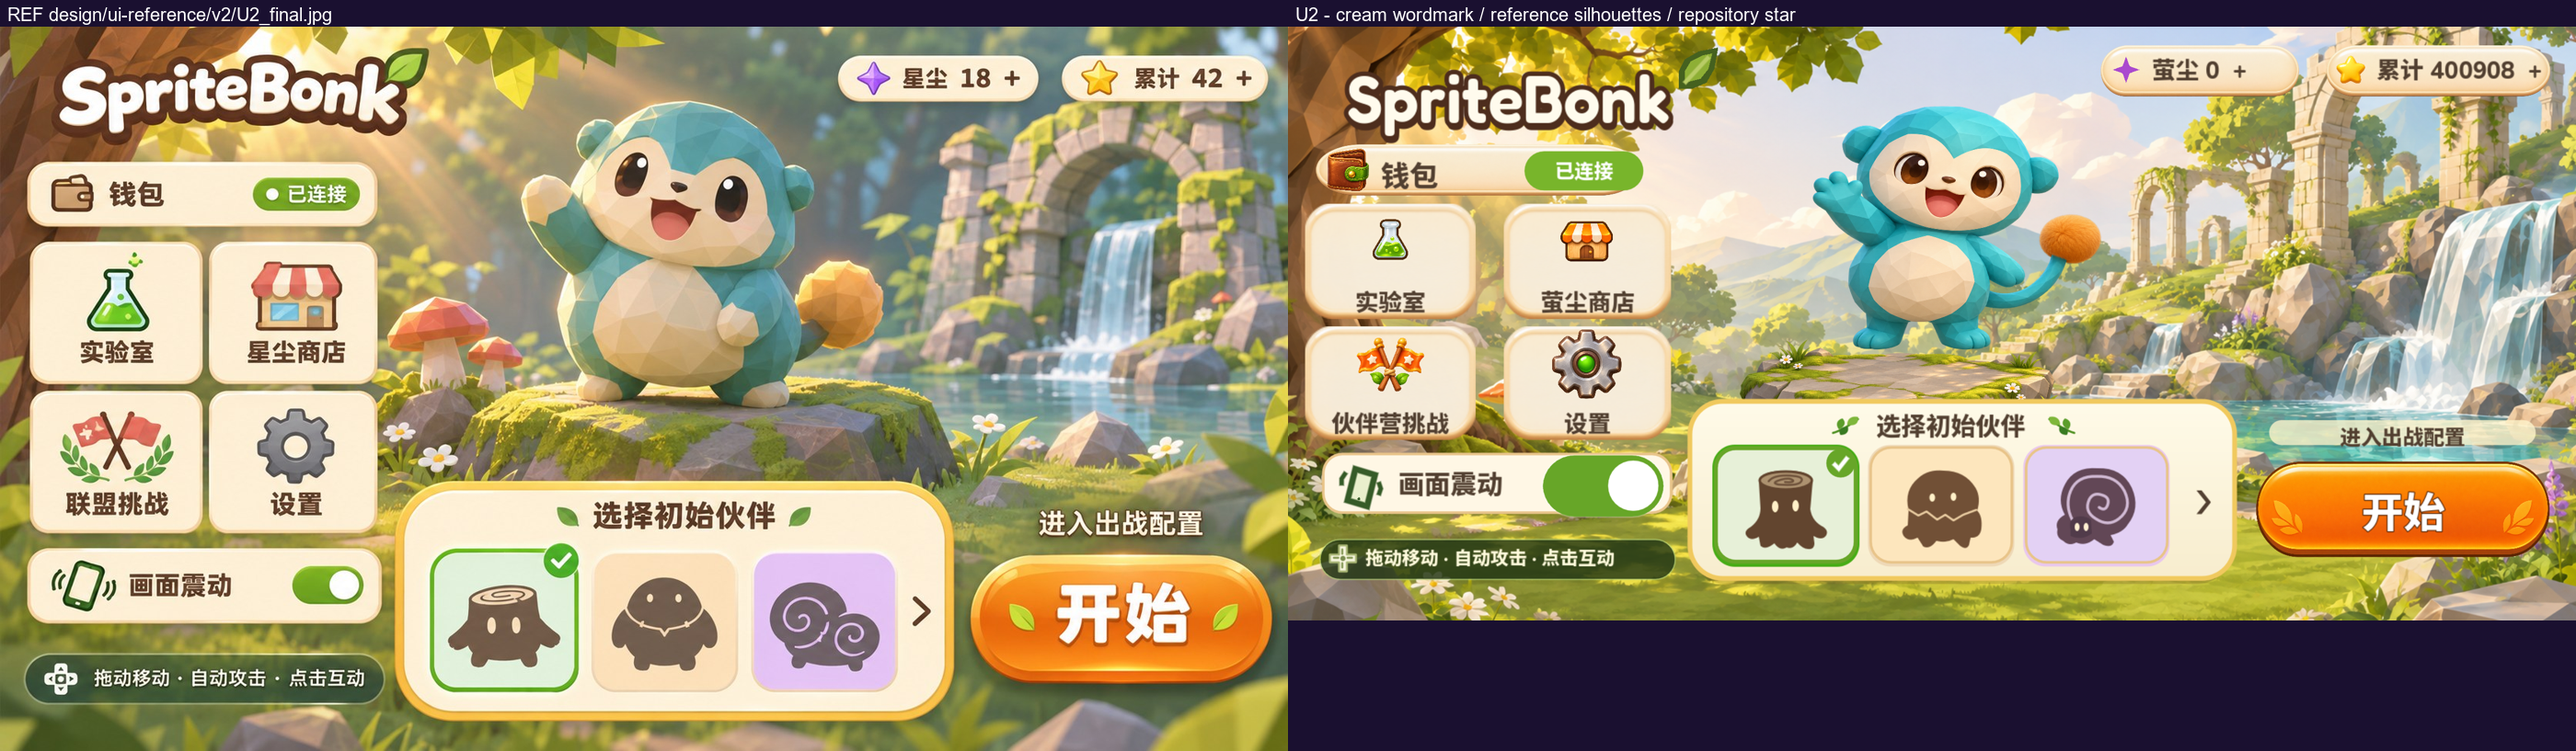
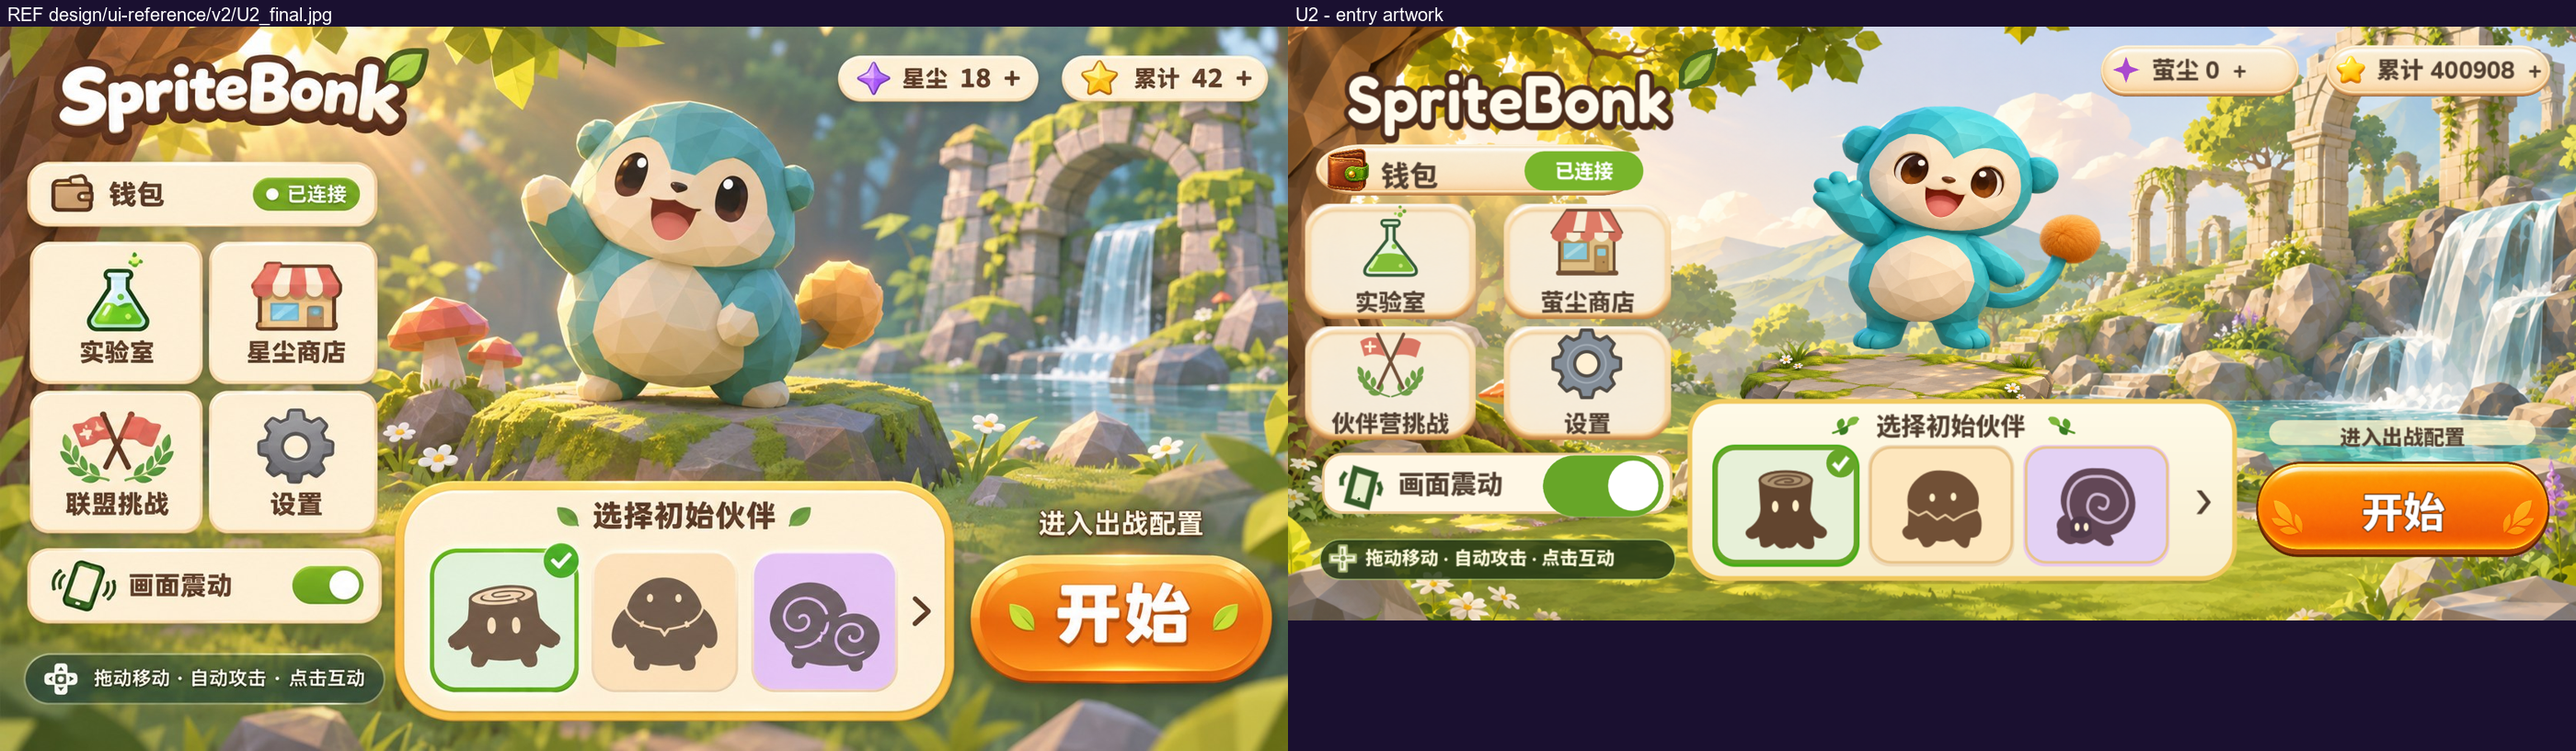
Align U2 entry illustrations with reference silhouettes

diff --git a/design/ui-alignment-progress.md b/design/ui-alignment-progress.md
@@ -200,3 +200,15 @@ U1 已重开，U3 不得开工（见「关闭门」）。第 9 轮：2340 复验
 - 冻结代码后按两档逐次全程复验，`u2-graphic-full-2340.log` **1475/3**、`u2-graphic-full-2400.log` **1565/3**，相对同机基线仅增加一条字标颜色检查，新失败为 0。三条既有红仍为抽屉自动收起、头像暂停可达及祝福打开遇迟到 draft。
 - 最终后台实拍已目检，白色字标、无下划线、手机图标、五角星与三张剪影均可见。捕获逻辑视口为 **1560×720**、菜单矩形 **(8,4,1542.667,712)**、缩放 **1.582222**，与 2340 phonehud 一致。震动往返 PASS。截图生成后仍遇既有退出崩溃，未将退出记为 0。
 - U2 尚未关闭，四入口原位图与参考在玻璃瓶、红白篷、红旗和灰色齿轮的绘制细节仍有差异，继续同屏修正。
+
+## U2 四入口图标施工清单
+
+- 本轮以定稿四卡局部逐项核对，现图的细颈立体药瓶、橙色篷布、橙金旗帜和绿色齿轮轴心与参考不符。
+- 在既有菜单素材目录增加透明 SVG 变体，分别还原绿色玻璃瓶、红白篷布、红旗绿叶和灰色齿轮。手机菜单沿用同一卡位及入口信号，原位图留存。新素材配套导入元数据一同提交，先跑菜单两档检查及实拍，再做本轮最终双档全程。
+
+## U2 四入口图标复验
+
+- 四张 SVG 已接入并配套导入元数据，XML 解析全部通过。TextureRect 先设置忽略原图尺寸再赋纹理，避免原始尺寸抬高布局下限。
+- `u2-entry-serial` 两档菜单均 **114/0**。独立后台桌面新实拍已目检，绿色玻璃瓶、红白篷布、红旗绿叶与奶油轴心灰齿轮均可见，震动往返 PASS，`compare/U2.png` 已刷新。
+- 冻结代码后依次完整复验，`u2-entry-full-2340.log` **1475/3**、`u2-entry-full-2400.log` **1565/3**。与同机起点逐名比较新增失败均为 0，剩余仍为抽屉自动收起、头像暂停可达及祝福遇 draft。2400 原 home 和独立技能行避让检查通过。
+- 截图成功保存后图形进程退出码 3221225477，仍有既有退出崩溃。U2 继续同屏核对钱包小图与参考的扁平描边差异，关闭签核待主控验收。
